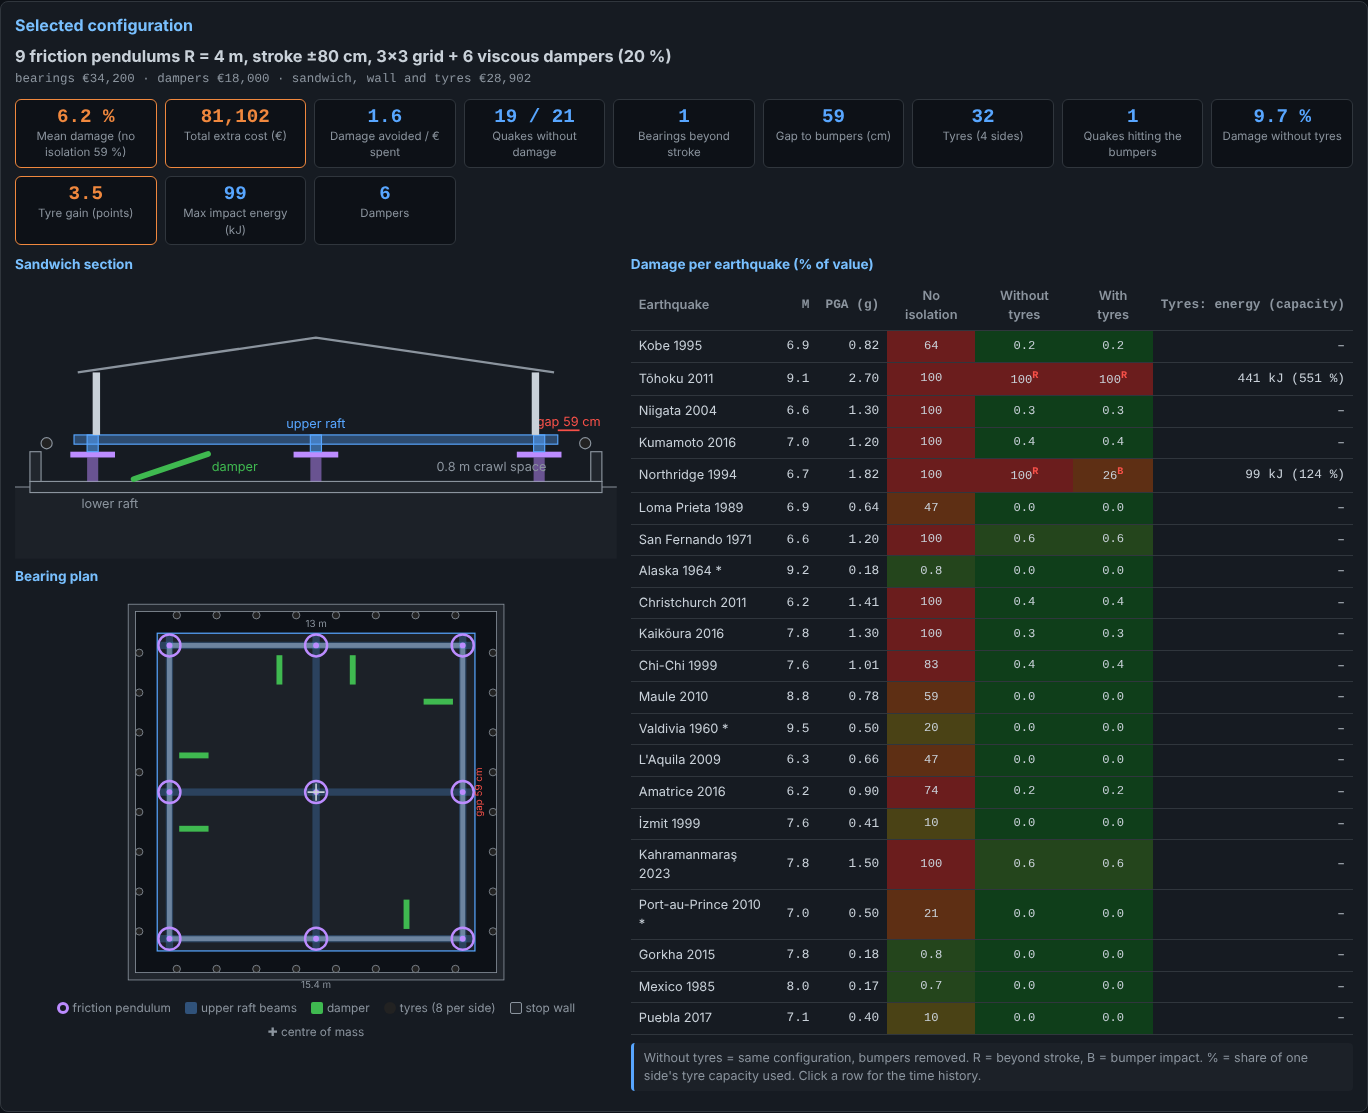
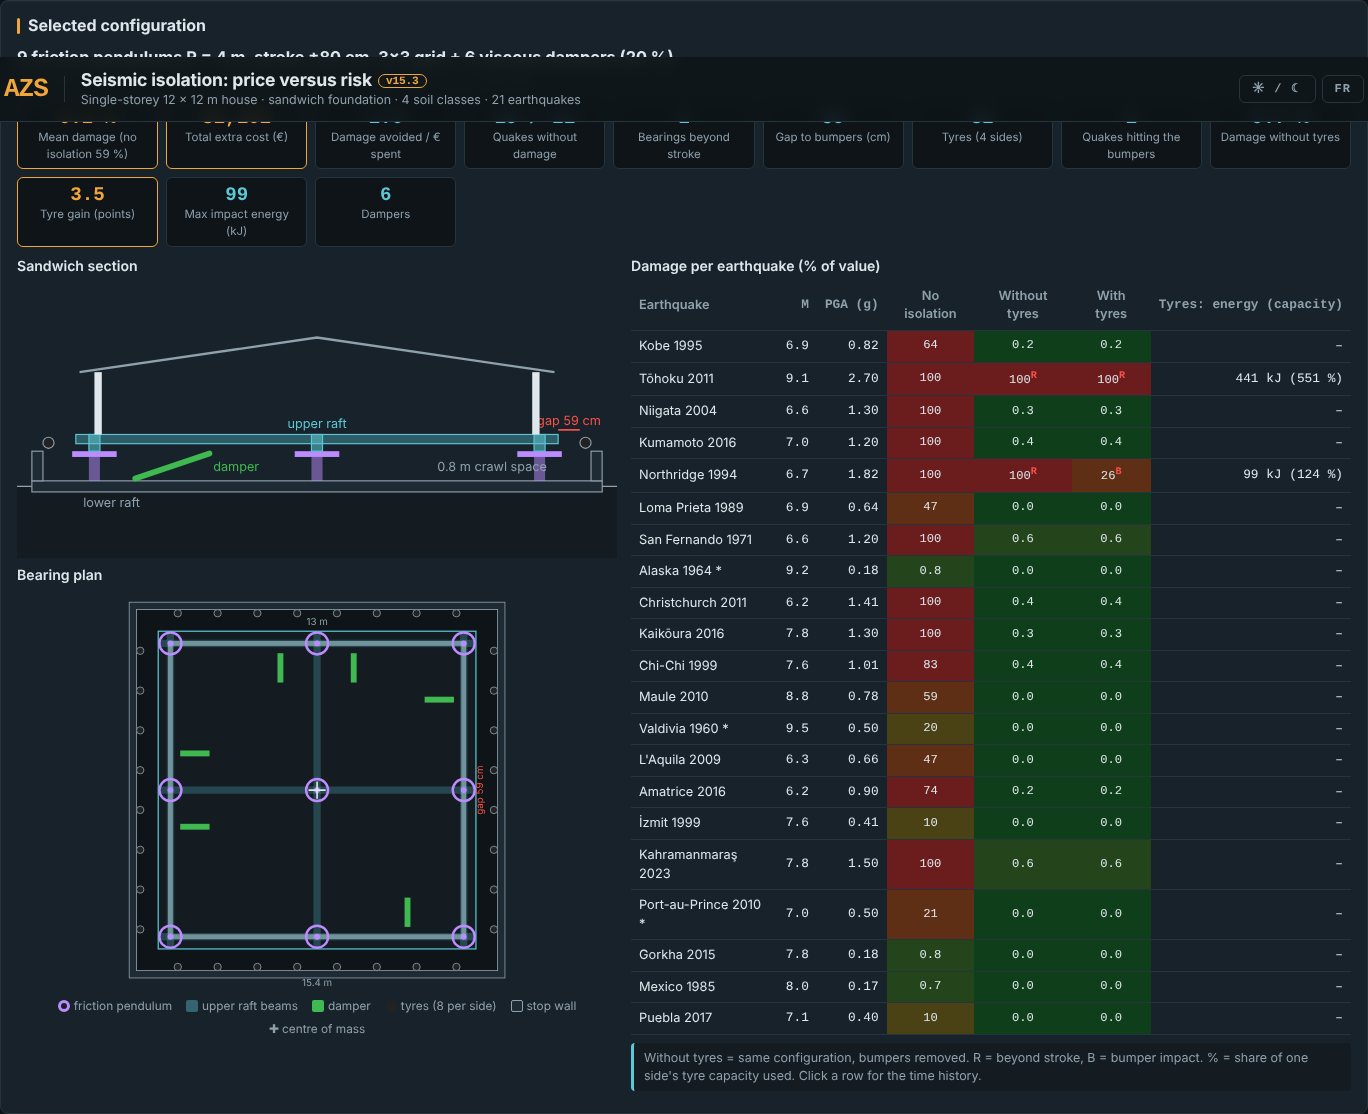
Charte graphique AZS (v15.3)
Palette sombre / claire, typographie et composants alignés sur www.azs.fr :
en-tête avec marque AZS et lien de retour, boutons et onglets ambre, tracés
cyan, titres de cartes repérés ; couleurs de verdict et carte de chaleur
inchangées. Version corrigée dans le pied de page, captures refaites.

Claude-Session: https://claude.ai/code/session_018DEShnQbFmf7n67u3FoFwU

diff --git a/simulateur_sismique.html b/simulateur_sismique.html
@@ -7,7 +7,7 @@
                 type de terrain, pour 21 séismes de référence
  Auteur       : Eric PERRET — assistance Claude (Anthropic)
  Date         : 2026-10-17
- Version      : 15.2
+ Version      : 15.3
  Dépendances  : aucune (HTML/CSS/JavaScript natif, fichier autonome)
  Licence      : CC BY-NC 4.0 — usage commercial interdit sans accord écrit de l'auteur
 ------------------------------------------------------------------------------
@@ -38,6 +38,9 @@
            énergie absorbée et part de la capacité des pneus par séisme
    15.2  : langue détectée au chargement (français si le navigateur est en
            français, anglais sinon), bouton FR / EN conservé
+   15.3  : charte graphique AZS (palette, typographie, en-tête avec lien de
+           retour vers www.azs.fr, boutons et onglets ambre, tracés cyan) ;
+           version corrigée dans le pied de page
 ==============================================================================
 -->
 <html lang="fr">
@@ -46,44 +49,62 @@
 <meta name="viewport" content="width=device-width, initial-scale=1">
 <title>Isolation sismique v15</title>
 <style>
+/* ---------- charte AZS (www.azs.fr) ---------- */
 :root {
-    --bg: #0d1117; --panel: #161b22; --panel2: #1c2128; --border: #30363d;
-    --text: #c9d1d9; --muted: #8b949e; --accent: #58a6ff; --accent2: #79c0ff;
-    --ok: #3fb950; --warn: #d29922; --bad: #f85149; --orange: #f0883e; --violet: #bc8cff; --grid: #21262d;
+    --bg: #0e1418; --panel: #18222a; --panel2: #141c22; --border: #26343e;
+    --text: #dfe7ec; --muted: #8fa1ad; --accent: #5cc8d6; --accent2: #8fdde6;
+    --ambre: #f0a63a; --ambre2: #ffcf7a; --sur-ambre: #111;
+    --ok: #3fb950; --warn: #d29922; --bad: #f85149; --orange: #f0883e; --violet: #bc8cff; --grid: #1f2b34;
     --h0: #0f3e1a; --h1: #24451c; --h2: #4a4215; --h3: #5e2f14; --h4: #6b1d1d;
-    --mono: ui-monospace, "SFMono-Regular", Consolas, "Courier New", monospace;
-    --sans: system-ui, -apple-system, "Segoe UI", Roboto, sans-serif;
+    --ombre: 0 1px 0 rgba(255,255,255,.03) inset, 0 10px 30px -18px rgba(0,0,0,.8);
+    --mono: ui-monospace, "SFMono-Regular", Menlo, Consolas, "Liberation Mono", monospace;
+    --sans: system-ui, -apple-system, "Segoe UI", Roboto, "Helvetica Neue", Arial, sans-serif;
     color-scheme: dark;
 }
 @media (prefers-color-scheme: light) {
     :root:not([data-theme="dark"]) {
-        --bg: #ffffff; --panel: #f6f8fa; --panel2: #eef1f4; --border: #d0d7de;
-        --text: #1f2328; --muted: #59636e; --accent: #0969da; --accent2: #0550ae;
-        --ok: #1a7f37; --warn: #9a6700; --bad: #cf222e; --orange: #bc4c00; --violet: #8250df; --grid: #e6e9ed;
-        --h0: #c8f0d0; --h1: #e6f2c2; --h2: #fbe9a8; --h3: #fcc9a2; --h4: #f9a9a6; color-scheme: light;
+        --bg: #f4f1ea; --panel: #fffdf8; --panel2: #ebe6db; --border: #d8d0c0;
+        --text: #1c2428; --muted: #5f6b72; --accent: #1f7f8c; --accent2: #165f69;
+        --ambre: #b86a00; --ambre2: #8a4f00; --sur-ambre: #fff;
+        --ok: #1a7f37; --warn: #9a6700; --bad: #cf222e; --orange: #bc4c00; --violet: #8250df; --grid: #e4ddcf;
+        --h0: #c8f0d0; --h1: #e6f2c2; --h2: #fbe9a8; --h3: #fcc9a2; --h4: #f9a9a6;
+        --ombre: 0 1px 2px rgba(60,40,0,.06), 0 12px 28px -20px rgba(60,40,0,.35); color-scheme: light;
     }
 }
 :root[data-theme="light"] {
-    --bg: #ffffff; --panel: #f6f8fa; --panel2: #eef1f4; --border: #d0d7de;
-    --text: #1f2328; --muted: #59636e; --accent: #0969da; --accent2: #0550ae;
-    --ok: #1a7f37; --warn: #9a6700; --bad: #cf222e; --orange: #bc4c00; --violet: #8250df; --grid: #e6e9ed;
-    --h0: #c8f0d0; --h1: #e6f2c2; --h2: #fbe9a8; --h3: #fcc9a2; --h4: #f9a9a6; color-scheme: light;
+        --bg: #f4f1ea; --panel: #fffdf8; --panel2: #ebe6db; --border: #d8d0c0;
+        --text: #1c2428; --muted: #5f6b72; --accent: #1f7f8c; --accent2: #165f69;
+        --ambre: #b86a00; --ambre2: #8a4f00; --sur-ambre: #fff;
+        --ok: #1a7f37; --warn: #9a6700; --bad: #cf222e; --orange: #bc4c00; --violet: #8250df; --grid: #e4ddcf;
+        --h0: #c8f0d0; --h1: #e6f2c2; --h2: #fbe9a8; --h3: #fcc9a2; --h4: #f9a9a6;
+        --ombre: 0 1px 2px rgba(60,40,0,.06), 0 12px 28px -20px rgba(60,40,0,.35); color-scheme: light;
 }
 * { box-sizing: border-box; }
-body { margin: 0; background: var(--bg); color: var(--text); font: 14px/1.45 var(--sans); }
+body { margin: 0; background: var(--bg); color: var(--text); font: 14px/1.45 var(--sans);
+       background-image: linear-gradient(var(--border) 1px, transparent 1px), linear-gradient(90deg, var(--border) 1px, transparent 1px);
+       background-size: 48px 48px; background-attachment: fixed; background-position: -1px -1px; }
+body::before { content: ""; position: fixed; inset: 0; z-index: -1; pointer-events: none;
+       background: radial-gradient(ellipse at 50% 0%, transparent 0%, var(--bg) 70%); }
 header { display: flex; align-items: center; justify-content: space-between; gap: 12px; padding: 12px 20px;
-         background: var(--panel); border-bottom: 1px solid var(--border); position: sticky; top: 0; z-index: 10; }
-header h1 { margin: 0; font-size: 1.1rem; color: var(--accent); }
-.badge { display: inline-block; background: var(--orange); color: #000; padding: 1px 8px; border-radius: 10px; font-size: .7rem; font-weight: 700; vertical-align: middle; margin-left: 6px; }
+         background: color-mix(in srgb, var(--bg) 88%, transparent); backdrop-filter: blur(8px); -webkit-backdrop-filter: blur(8px);
+         border-bottom: 1px solid var(--border); position: sticky; top: 0; z-index: 10; }
+.hdr-g { display: flex; align-items: center; gap: 16px; min-width: 0; }
+.azs { font: 800 26px/1 var(--mono); letter-spacing: -1px; color: var(--ambre); text-decoration: none;
+       padding-right: 16px; border-right: 1px solid var(--border); }
+.azs:hover { color: var(--ambre2); }
+header h1 { margin: 0; font: 700 1.1rem/1.25 var(--sans); color: var(--text); letter-spacing: -.2px; }
+.badge { display: inline-block; background: transparent; color: var(--ambre); border: 1px solid var(--ambre); padding: 0 7px; border-radius: 999px; font: 600 .7rem var(--mono); vertical-align: middle; margin-left: 6px; }
 .sub { color: var(--muted); font-size: .78rem; }
 .hdr-btns { display: flex; gap: 6px; }
 main { max-width: 1500px; margin: 0 auto; padding: 16px; }
-.card { background: var(--panel); border: 1px solid var(--border); border-radius: 8px; margin-bottom: 14px; padding: 12px 14px; }
-.card h2 { margin: 0 0 8px; font-size: 1rem; color: var(--accent2); }
-.card h3 { margin: 0 0 6px; font-size: .85rem; color: var(--accent2); }
-details.card > summary { cursor: pointer; font-weight: 600; color: var(--accent2); list-style: none; display: flex; gap: 8px; align-items: center; }
+.card { background: var(--panel); border: 1px solid var(--border); border-radius: 8px; margin-bottom: 14px; padding: 14px 16px; box-shadow: var(--ombre); }
+.card h2 { margin: 0 0 10px; font: 700 1rem/1.3 var(--sans); color: var(--text); display: flex; align-items: center; gap: 8px; }
+.card h2::before { content: ""; width: 3px; height: 1em; border-radius: 2px; background: var(--ambre); flex: none; }
+.card h3 { margin: 0 0 6px; font: 600 .88rem/1.3 var(--sans); color: var(--text); }
+details.card > summary { cursor: pointer; font-weight: 700; color: var(--text); list-style: none; display: flex; gap: 8px; align-items: center; }
 details.card > summary::-webkit-details-marker { display: none; }
-details.card > summary::after { content: "▸"; margin-left: auto; color: var(--muted); transition: transform .2s; }
+details.card > summary:hover { color: var(--ambre); }
+details.card > summary::after { content: "▸"; margin-left: auto; color: var(--ambre); transition: transform .2s; }
 details.card[open] > summary::after { transform: rotate(90deg); }
 .hyp { display: grid; grid-template-columns: minmax(150px, max-content) 1fr; gap: 4px 16px; margin-top: 10px; font-size: .8rem; }
 .hyp dt { color: var(--muted); font-weight: 600; }
@@ -91,16 +112,17 @@ details.card[open] > summary::after { transform: rotate(90deg); }
 .prix { display: grid; grid-template-columns: repeat(auto-fit, minmax(150px, 1fr)); gap: 8px 12px; margin-top: 10px; }
 .prix label { display: block; font-size: .72rem; color: var(--muted); font-weight: 600; margin-bottom: 3px; }
 .prix input { width: 100%; padding: 5px 8px; background: var(--bg); border: 1px solid var(--border); color: var(--text); border-radius: 6px; font: 13px var(--mono); }
-.prix input:focus { outline: 2px solid var(--accent); outline-offset: -1px; }
+.prix input:focus { outline: 2px solid var(--ambre); outline-offset: -1px; }
 .devis { font-size: .74rem; color: var(--muted); margin-top: 8px; font-family: var(--mono); }
 .run { display: flex; align-items: center; gap: 12px; flex-wrap: wrap; }
 .prog { flex: 1; min-width: 200px; height: 10px; background: var(--panel2); border: 1px solid var(--border); border-radius: 5px; overflow: hidden; }
-.prog > div { height: 100%; width: 0; background: linear-gradient(90deg, var(--accent), var(--orange)); transition: width .2s; }
+.prog > div { height: 100%; width: 0; background: linear-gradient(90deg, var(--accent), var(--ambre)); transition: width .2s; }
 .status { font-size: .8rem; color: var(--muted); min-width: 220px; }
-button { padding: 8px 16px; border: 0; border-radius: 6px; font: 700 .78rem var(--sans); cursor: pointer; color: #fff; background: #238636; text-transform: uppercase; letter-spacing: .03em; }
-button:hover { filter: brightness(1.15); }
+button { padding: 9px 18px; border: 0; border-radius: 6px; font: 700 .82rem var(--sans); cursor: pointer; color: var(--sur-ambre); background: var(--ambre); transition: filter .15s, border-color .15s, color .15s; }
+button:hover { filter: brightness(1.1); }
 button:disabled { opacity: .45; cursor: progress; }
-.b-ghost { background: transparent; color: var(--text); border: 1px solid var(--border); text-transform: none; padding: 5px 10px; }
+.b-ghost { background: transparent; color: var(--muted); border: 1px solid var(--border); padding: 7px 12px; font: 600 12px/1 var(--mono); letter-spacing: 1px; white-space: nowrap; }
+.b-ghost:hover { filter: none; color: var(--text); border-color: var(--ambre); }
 .tablewrap { overflow-x: auto; }
 table { width: 100%; border-collapse: collapse; font-size: .8rem; }
 th, td { padding: 6px 8px; border-bottom: 1px solid var(--border); text-align: left; vertical-align: middle; }
@@ -112,13 +134,14 @@ tr.sel td { outline: 1px solid var(--accent); outline-offset: -1px; }
 .rep b { display: block; font-size: .8rem; }
 .rep span { font-family: var(--mono); font-size: .76rem; color: var(--muted); }
 .tabs { display: flex; gap: 6px; flex-wrap: wrap; margin-bottom: 12px; }
-.tab { background: var(--panel); color: var(--text); border: 1px solid var(--border); text-transform: none; font-weight: 600; }
-.tab.on { background: var(--accent); color: #fff; border-color: var(--accent); }
+.tab { background: var(--panel); color: var(--muted); border: 1px solid var(--border); font-weight: 600; border-radius: 999px; padding: 7px 14px; }
+.tab:hover { filter: none; color: var(--text); border-color: var(--ambre); }
+.tab.on { background: var(--ambre); color: var(--sur-ambre); border-color: var(--ambre); }
 .tiles { display: grid; grid-template-columns: repeat(auto-fit, minmax(130px, 1fr)); gap: 8px; margin: 10px 0; }
 .tile { background: var(--bg); border: 1px solid var(--border); border-radius: 6px; padding: 6px 8px; text-align: center; }
 .tile b { display: block; font: 600 1.2rem var(--mono); color: var(--accent); }
 .tile span { display: block; font-size: .72rem; color: var(--muted); }
-.tile.hl { border-color: var(--orange); } .tile.hl b { color: var(--orange); }
+.tile.hl { border-color: var(--ambre); } .tile.hl b { color: var(--ambre); }
 .titre-sel { font-size: 1.02rem; font-weight: 700; margin: 2px 0; }
 .ventil { font-size: .78rem; color: var(--muted); font-family: var(--mono); }
 .duo { display: grid; grid-template-columns: minmax(0, 5fr) minmax(0, 6fr); gap: 14px; }
@@ -138,14 +161,19 @@ tr.sel td { outline: 1px solid var(--accent); outline-offset: -1px; }
 .charts canvas { display: block; width: 100%; height: 220px; }
 .note { font-size: .78rem; color: var(--muted); padding: 6px 10px; border-left: 3px solid var(--accent); background: var(--panel2); border-radius: 4px; margin: 8px 0; }
 .vide { color: var(--muted); text-align: center; padding: 30px; }
-footer { text-align: center; color: var(--muted); font-size: .7rem; padding: 8px 0 18px; }
+footer { text-align: center; color: var(--muted); font: .7rem/1.6 var(--mono); padding: 8px 16px 22px; }
+footer a { color: var(--muted); } footer a:hover { color: var(--ambre); }
+@media (max-width: 640px) { .azs { font-size: 20px; padding-right: 10px; } .hdr-g { gap: 10px; } .sub { display: none; } }
 </style>
 </head>
 <body>
 <header>
-    <div>
-        <h1><span data-i18n="titre">Isolation sismique : prix contre risque</span><span class="badge">v15.2</span></h1>
+    <div class="hdr-g">
+        <a class="azs" href="https://www.azs.fr/" title="www.azs.fr">AZS</a>
+        <div>
+        <h1><span data-i18n="titre">Isolation sismique : prix contre risque</span><span class="badge">v15.3</span></h1>
         <div class="sub" data-i18n="soustitre">Maison plain-pied 12 × 12 m · fondation sandwich · 4 classes de sol · 21 séismes</div>
+        </div>
     </div>
     <div class="hdr-btns">
         <button class="b-ghost" id="btnTheme" type="button">☀ / ☾</button>
@@ -180,7 +208,7 @@ footer { text-align: center; color: var(--muted); font-size: .7rem; padding: 8px
     <div id="panneauSol"></div>
 </main>
 
-<footer data-i18n="pied">v15.1 · Newmark-β + Newton-Raphson · LRB / glissants / pendules à friction / amortisseurs visqueux · spectre EC8 type 1 · torsion accidentelle EC8</footer>
+<footer><span data-i18n="pied">v15.3 · Newmark-β + Newton-Raphson · LRB / glissants / pendules à friction / amortisseurs visqueux · spectre EC8 type 1 · torsion accidentelle EC8</span><br><a href="https://www.azs.fr/">www.azs.fr</a> · <a href="https://github.com/ericperret/Sismic">github.com/ericperret/Sismic</a></footer>
 
 <script id="noyau">
 var SIM = (function () {
@@ -716,7 +744,7 @@ var SIM = (function () {
             soustitre: 'Maison plain-pied 12 × 12 m · fondation sandwich · 4 classes de sol · 21 séismes',
             sec_hyp: 'Modèle de construction et hypothèses', sec_prix: 'Prix (modifiables, recalcul instantané)',
             b_run: 'Relancer le calcul', sec_synth: 'Synthèse par type de terrain',
-            pied: 'v15.1 · Newmark-β + Newton-Raphson · LRB / glissants / pendules à friction / amortisseurs visqueux · spectre EC8 type 1 · torsion accidentelle EC8',
+            pied: 'v15.3 · Newmark-β + Newton-Raphson · LRB / glissants / pendules à friction / amortisseurs visqueux · spectre EC8 type 1 · torsion accidentelle EC8',
             sol_A: 'A – Rocher', sol_B: 'B – Sol ferme', sol_C: 'C – Sol moyen', sol_D: 'D – Sol mou',
             st_calc: 'Calcul en cours — {p} %', st_fini: 'Terminé en {s} s', st_err: 'Erreur : ', st_attente: 'Calcul en attente',
             h_maison: 'Maison', v_maison: 'plain-pied 12 × 12 m, parpaing chaîné 20 cm, tôle sur charpente, hauteur 2,8 m',
@@ -775,7 +803,7 @@ var SIM = (function () {
             soustitre: 'Single-storey 12 × 12 m house · sandwich foundation · 4 soil classes · 21 earthquakes',
             sec_hyp: 'Construction model and assumptions', sec_prix: 'Prices (editable, instant update)',
             b_run: 'Re-run calculation', sec_synth: 'Summary by soil type',
-            pied: 'v15.1 · Newmark-β + Newton-Raphson · LRB / sliders / friction pendulums / viscous dampers · EC8 type 1 spectrum · EC8 accidental torsion',
+            pied: 'v15.3 · Newmark-β + Newton-Raphson · LRB / sliders / friction pendulums / viscous dampers · EC8 type 1 spectrum · EC8 accidental torsion',
             sol_A: 'A – Rock', sol_B: 'B – Stiff soil', sol_C: 'C – Medium soil', sol_D: 'D – Soft soil',
             st_calc: 'Computing — {p} %', st_fini: 'Done in {s} s', st_err: 'Error: ', st_attente: 'Waiting',
             h_maison: 'House', v_maison: 'single storey 12 × 12 m, 20 cm confined blockwork, metal sheet on timber roof, height 2.8 m',

diff --git a/LISEZMOI.md b/LISEZMOI.md
@@ -3,7 +3,7 @@
   Objet    : Présentation du simulateur d'isolation sismique (dépôt GitHub)
   Auteur   : Eric PERRET — assistance Claude (Anthropic)
   Date     : 2026-10-17
-  Version  : 15.2
+  Version  : 15.3
   Licence  : CC BY-NC 4.0 — usage commercial interdit sans accord écrit de l'auteur
 -->
 
@@ -86,6 +86,7 @@ La capacité d'absorption des pneus usagés est dispersée : un essai de compres
 | 14 | Fondation sandwich, pendules à friction, amortisseurs, courbe prix / risque |
 | 15 | Système de référence, radier nervuré, butées en pneus, casse sans / avec pneus |
 | 15.2 | Langue du navigateur détectée au chargement |
+| 15.3 | Charte graphique AZS (palette, en-tête avec lien de retour vers www.azs.fr), captures refaites |
 
 Le détail de chaque version figure dans le cartouche en tête de `simulateur_sismique.html`.
 

diff --git a/README.md b/README.md
@@ -3,7 +3,7 @@
   Purpose  : Overview of the seismic isolation simulator (GitHub repository)
   Author   : Eric PERRET — assisted by Claude (Anthropic)
   Date     : 2026-10-17
-  Version  : 15.2
+  Version  : 15.3
   License  : CC BY-NC 4.0 — commercial use forbidden without the author's written consent
 -->
 
@@ -86,6 +86,7 @@ The absorption capacity of used tyres is scattered: a compression test on one ty
 | 14 | Sandwich foundation, friction pendulums, dampers, price / risk curve |
 | 15 | Reference system, ribbed raft, tyre end stops, damage without / with tyres |
 | 15.2 | Browser language detected on load |
+| 15.3 | AZS visual identity (palette, header with link back to www.azs.fr), screenshots refreshed |
 
 The detail of each version is in the header block of `simulateur_sismique.html`.
 
